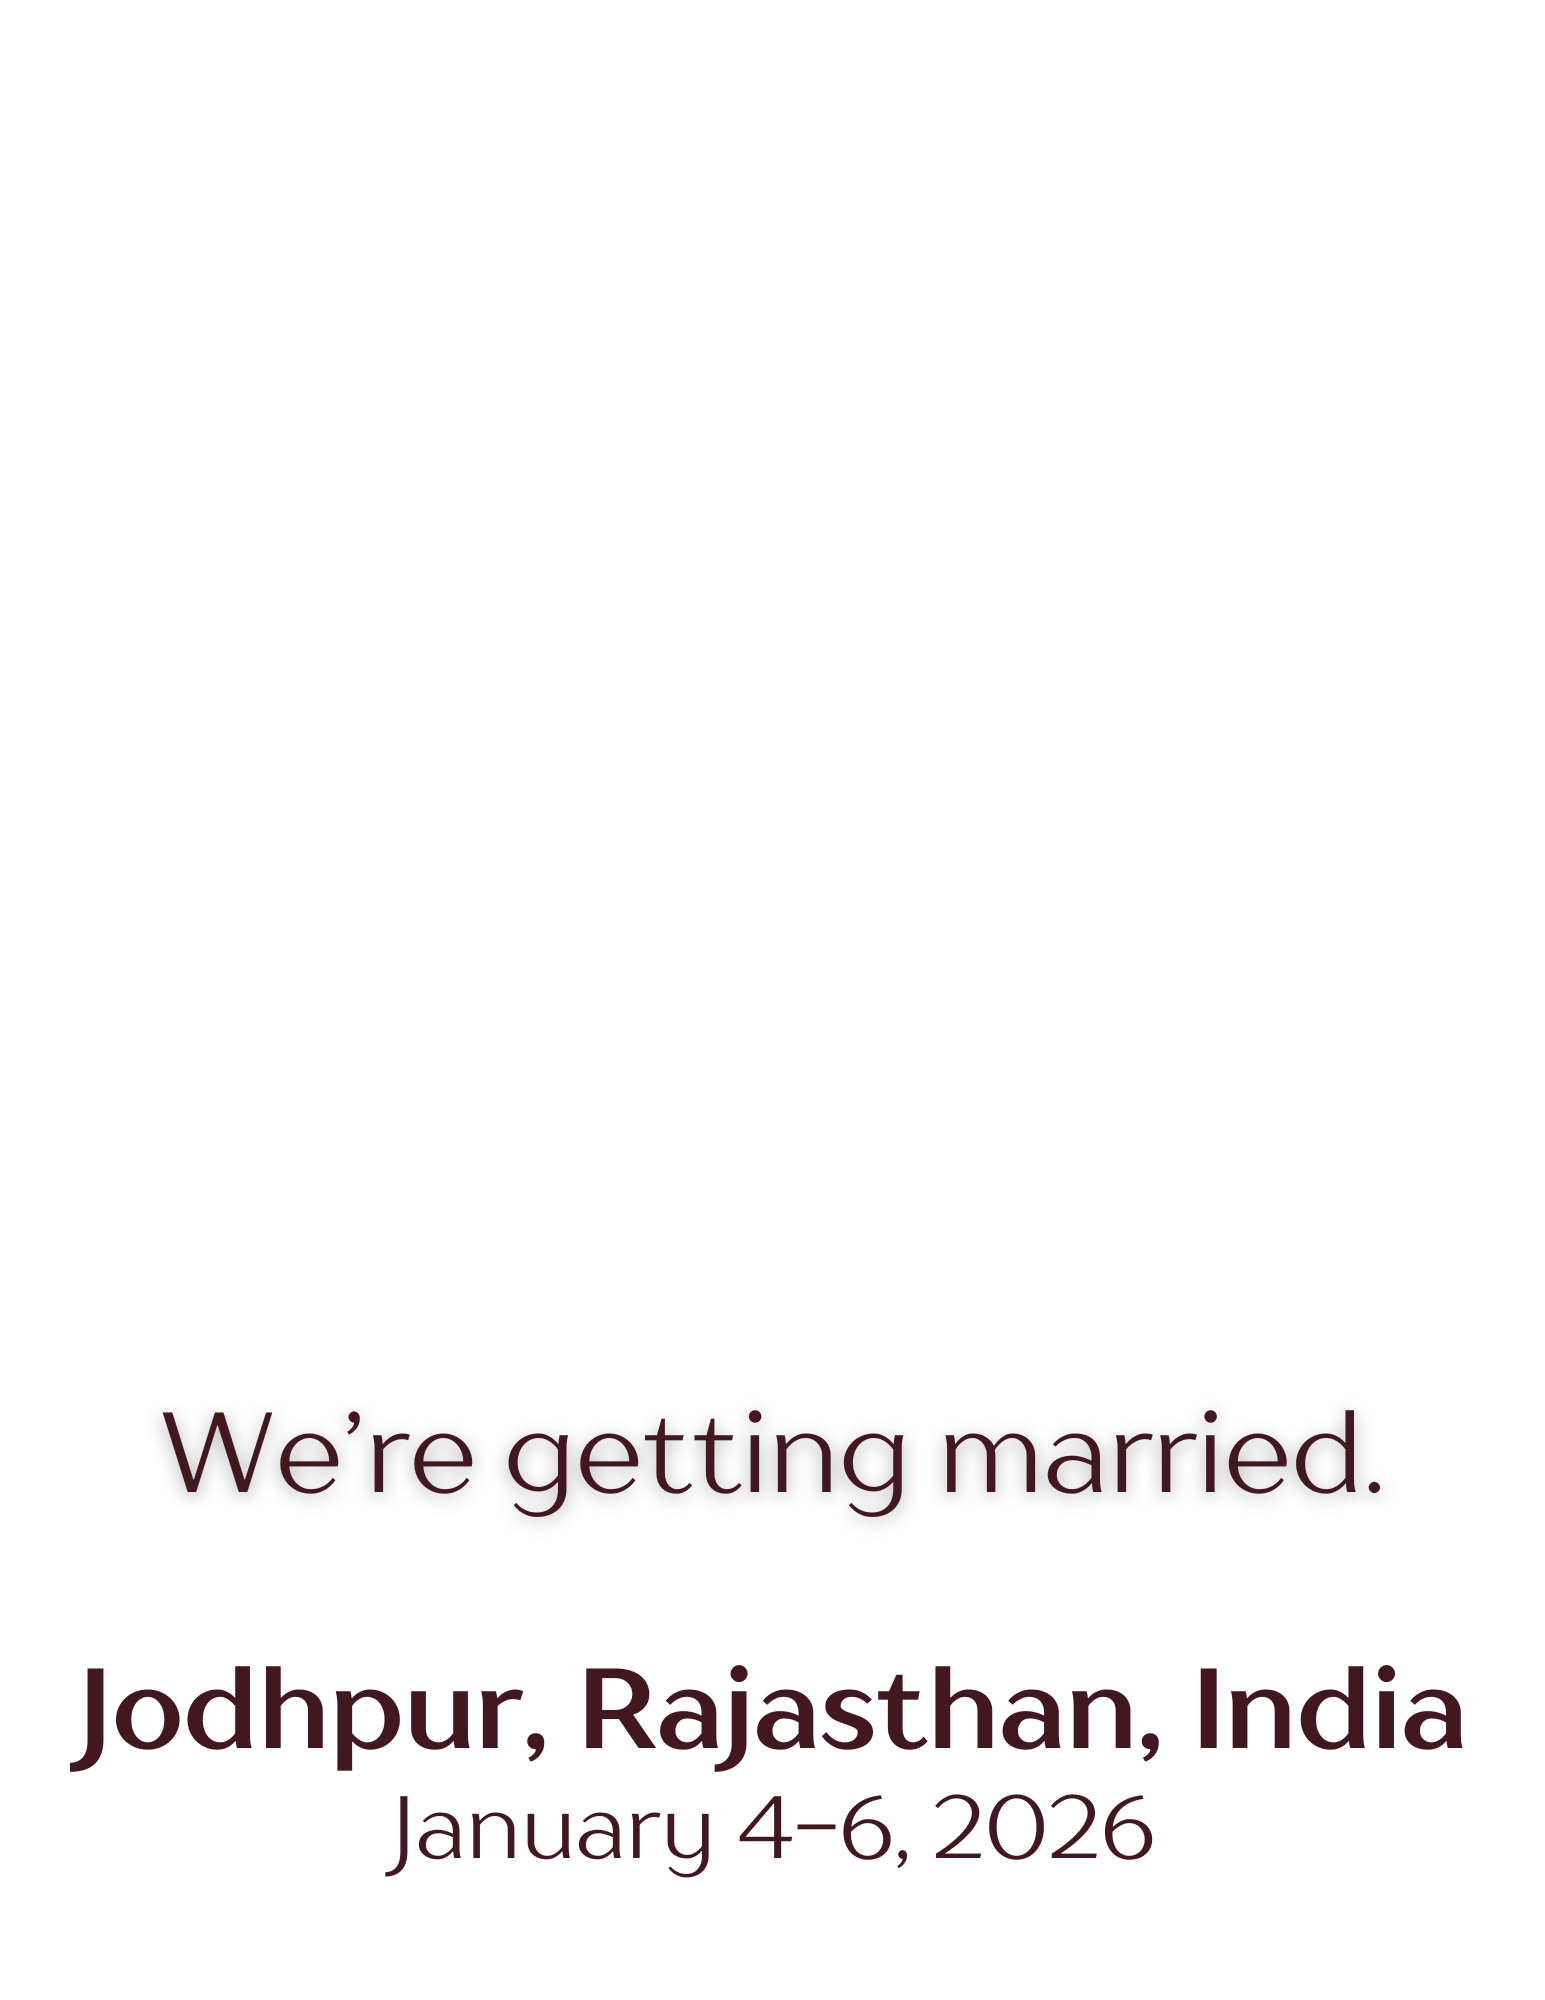
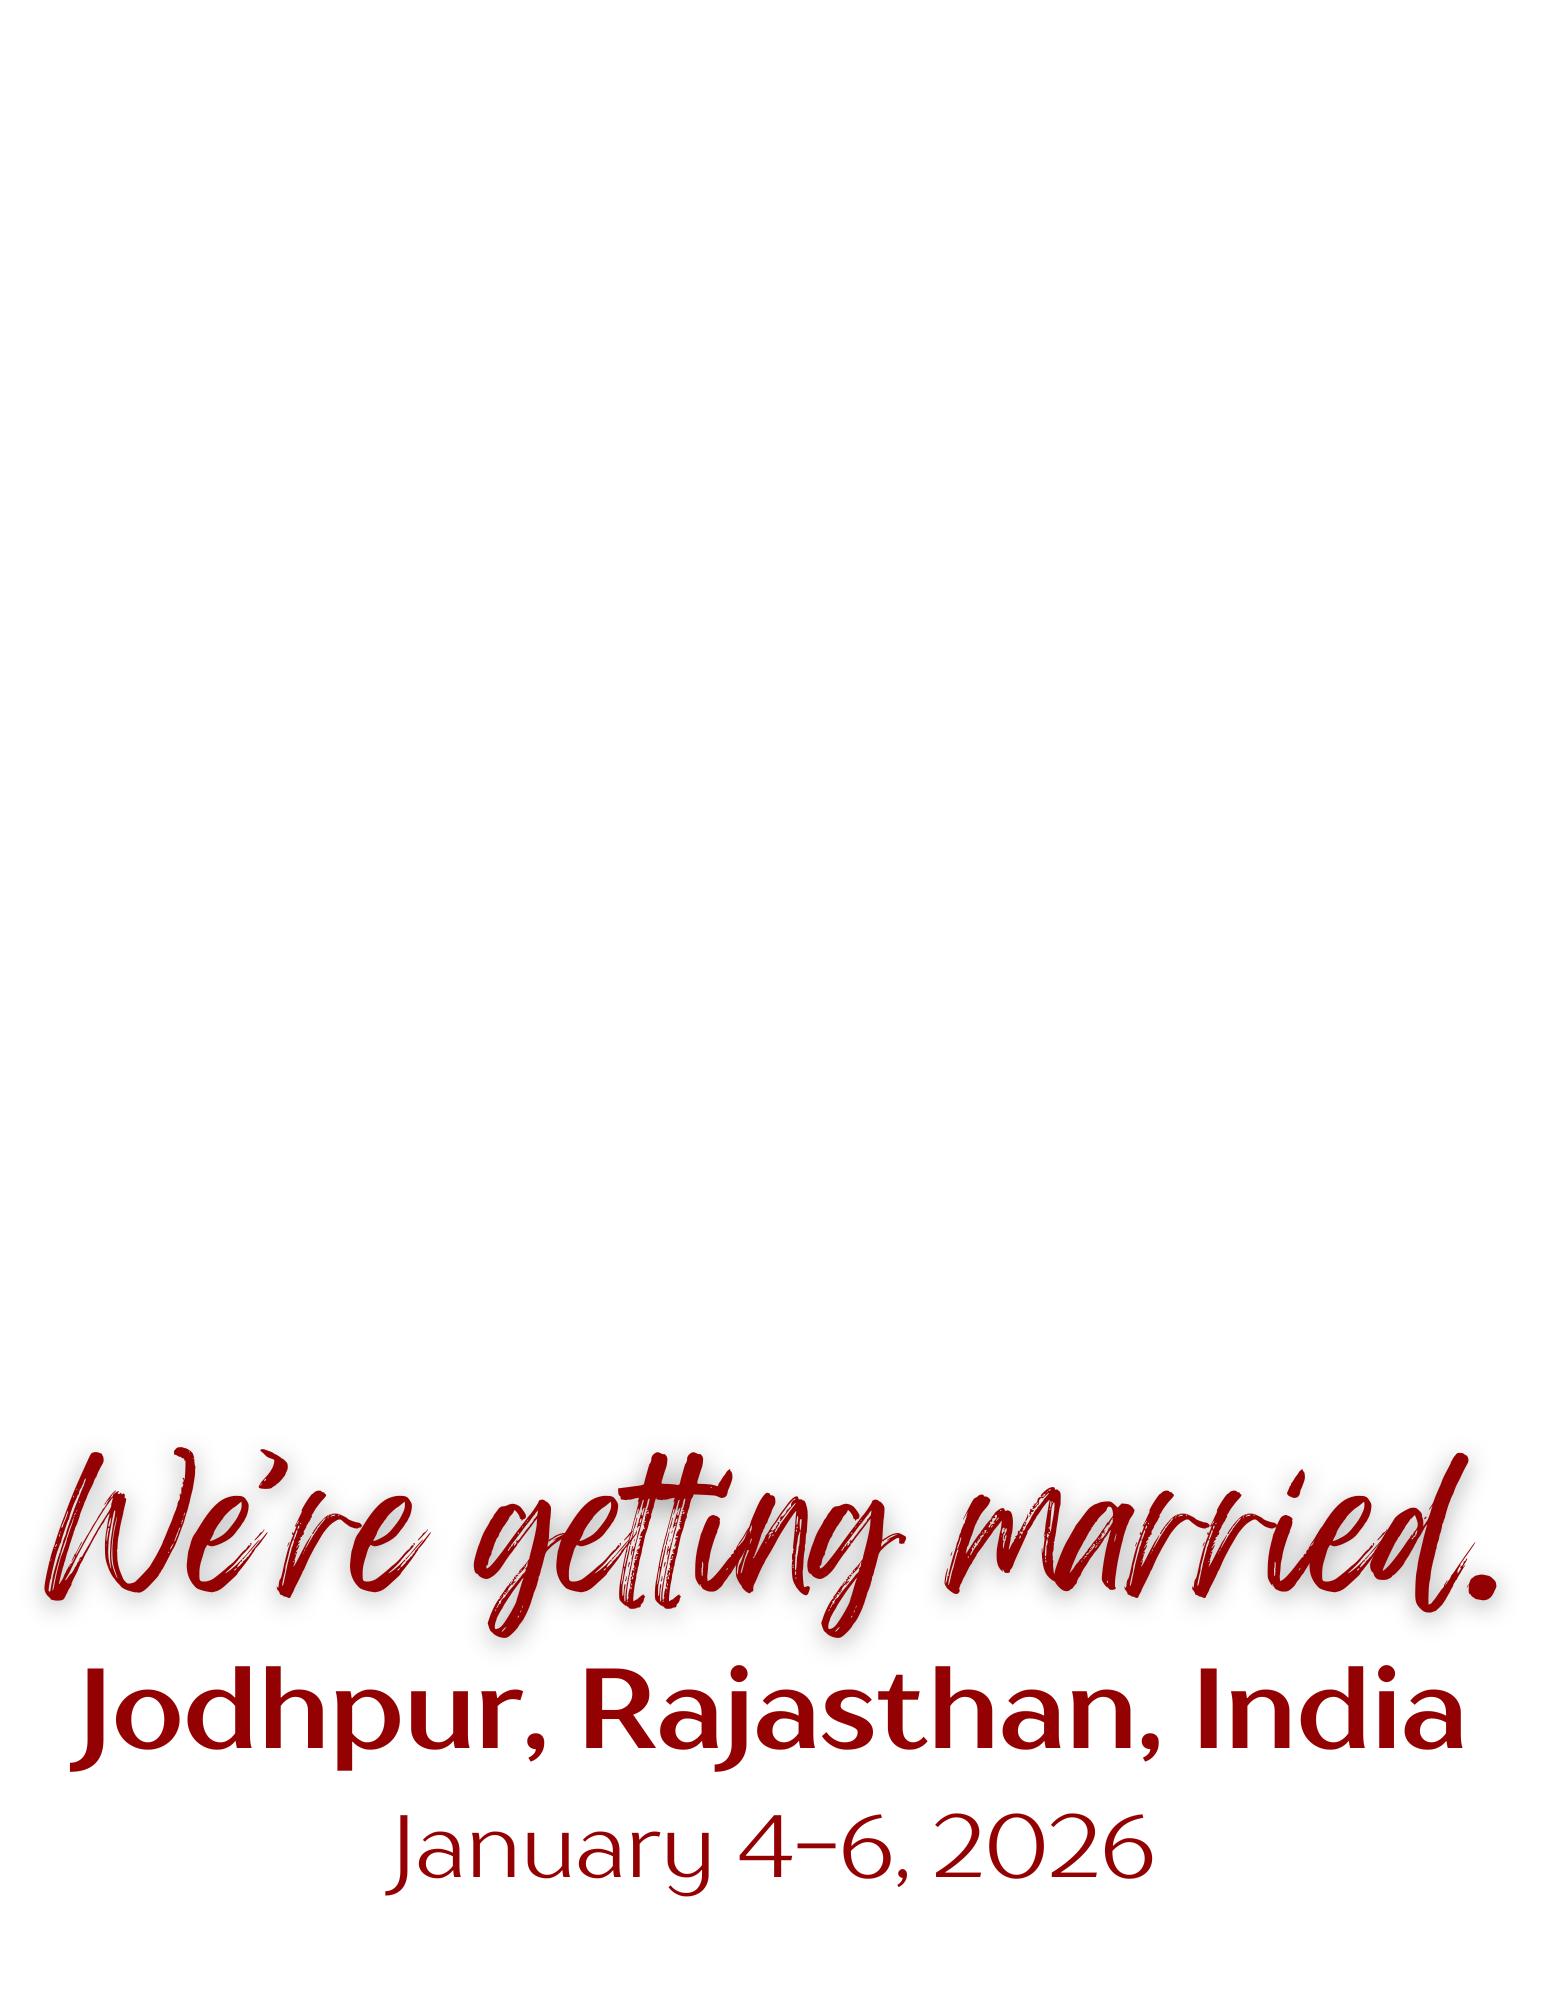
Played with Color Palette

Changed region(s): [[0.0311, 0.713, 0.9631, 0.961], [0.7767, 0.837, 0.9631, 0.899]]

diff --git a/styles.css b/styles.css
@@ -21,8 +21,8 @@
     border: none;
     outline: none;
     border-radius: 40px;
-    background: #F8F4F9;
-    color: #421820;
+    /* background: #F8F4F9; */
+    /* color: #421820; */
     transition: all 0.3s ease;
 }
 
@@ -31,9 +31,28 @@
     transition: all 0.3s ease;
 }
 
+:root {
+    /* Main Colors */
+    --orange-gold: #E39102;
+    --burnt-orange: #99381F;
+    --red: #930102;
+    --dark-blue: #004177;
+    --light-blue: #4E94AB;
+
+    /* Accent Blues */
+    --navy-teal: #20576E;
+    --greenish-blue: #599F90;
+
+    /* Accent Golds */
+    --orange: #EE9322;
+    --gold: #E9B824;
+
+    --white: #F8F4F9;
+}
+
 /*  NAVIGATION BAR SECTION **************************************************************************************************************/
 .navbar {
-    background: #B81822;
+    background: var(--red);
     height: 60px;
     width: 100%;
     display: flex;
@@ -57,7 +76,7 @@
 }
 
 #navbar__logo {
-    background-color: #BF9B30;
+    background-color: var(--orange-gold);
     background-size: 100%;
     -webkit-background-clip: text;
     -moz-background-clip: text;
@@ -86,7 +105,7 @@
 }
 
 .navbar__menu.active {
-    background-color: #BF9B30;
+    background-color: var(--orange-gold);
     top: 60px;
     opacity: 1;
     transition: all 0.5s ease;
@@ -101,7 +120,7 @@
 }
 
 .navbar__links {
-    color: #F8F4F9;
+    color: var(--white);
     display: flex;
     align-items: center;
     justify-content: center;
@@ -116,12 +135,13 @@
 }
 
 .navbar__links:hover {
-    color: #BF9B30;
+    color: var(--gold);
     transition: all 0.3s ease;
 }
 
 .navbar__btn {
     padding: 0 2rem 2rem;
+    background: var(--dark-blue);
     /* font-size: 1.2rem; */
 }
 
@@ -130,7 +150,7 @@
     height: 3px;
     margin: 5px auto;
     transition: all 0.3s ease-in-out;
-    background: #F8F4F9;
+    background: var(--white);
     display: block;
     cursor: pointer;
 }
@@ -269,19 +289,19 @@
 
 .hero button {
     /* display: flex; */
-    color: #421820;
+    color: var(--darkblue);
     padding: 2px 10px;
     border: none;
     outline: none;
     border-radius: 50px;
-    background: #F8F4F9;
+    background: var(--white);
     font-size: 0.85rem;
 }
 
 
 /*  Updates the page the user is on in the navigation bar when scrolling */
 .highlight {
-    border-bottom: 4px solid #EBA83A 
+    border-bottom: 4px solid var(--gold) 
 }
 
 /* Media Responsiveness *******************************/
@@ -293,7 +313,7 @@
 
     .hero button {
         display: flex;
-        color: #421820;
+        color: var(--darkblue);
         padding: 10px 40px;
         font-size: 1.5rem;
     }
@@ -321,7 +341,7 @@
 
     .hero button {
         display: flex;
-        color: #421820;
+        color: var(--darkblue);
         padding: 20px 50px;
         font-size: 1rem;
     }
@@ -331,9 +351,9 @@
 /*  OUR STORY SECTION ***************************************************************************************************/
 .main {
     /* background-color: #131313; */
-    background: #421820;  
-    background: -webkit-linear-gradient(to bottom, #B81822, #421820);  
-    background: linear-gradient(to bottom, #B81822, #421820); 
+    background: var(--dark);  
+    background: -webkit-linear-gradient(to bottom, var(--orange-gold), var(--burnt-orange));  
+    background: linear-gradient(to bottom, var(--orange-gold), var(--burnt-orange)); 
     padding: 5rem 0;
 }
 
@@ -432,7 +452,7 @@
     text-decoration: none;
     margin-top: 16px;
     text-decoration: none;
-    color: #421820;
+    color: var(--darkblue);
     padding: 2px 10px;
     border: none;
     outline: none;
@@ -464,7 +484,7 @@
 
 /*  TRAVEL SECTION *******************************************************************************************************************************/
 .travel {
-    background: #421820;
+    background: var(--teal);
     padding: 5rem 0;
 }
 
@@ -502,7 +522,7 @@
     flex-direction: column;
     justify-content: center;
     color: #F8F4F9;
-    background-color: #BF9B30;
+    background-color: var(--orange);
     transition: 0.3s ease-in;
 }
 
@@ -510,9 +530,9 @@
     text-align: center;
     font-size: 1.5rem;
     /* font: 800 40px Arial; */
-    -webkit-text-fill-color: #F8F4F9;
-    -webkit-text-stroke-width: 1px;
-    -webkit-text-stroke-color: #421820;
+    -webkit-text-fill-color: var(--white);
+    /* -webkit-text-stroke-width: 1px; */
+    /* -webkit-text-stroke-color: #421820; */
 }
 
 .travel__card p {

diff --git a/travel.html b/travel.html
@@ -36,8 +36,9 @@
     <!-- Necessary Documents -->
     <div class="documents" id="documents">
         <div class="documents__container">
-            <img src="images/Travel Documents.png" alt="Travel Documents Image">
             <button class="documents__btn"><a href="https://www.usa.gov/passport" target="_blank" class="button">Link to U.S. Passport Application</a></button>
+            <img src="images/Travel Documents.png" alt="Travel Documents Image">
+            
             <button class="documents__btn"><a href="https://indianvisaonline.gov.in/evisa/tvoa.html" target="_blank" class="button">Link to E-Visa Application</a></button>
         </div>
     </div>
